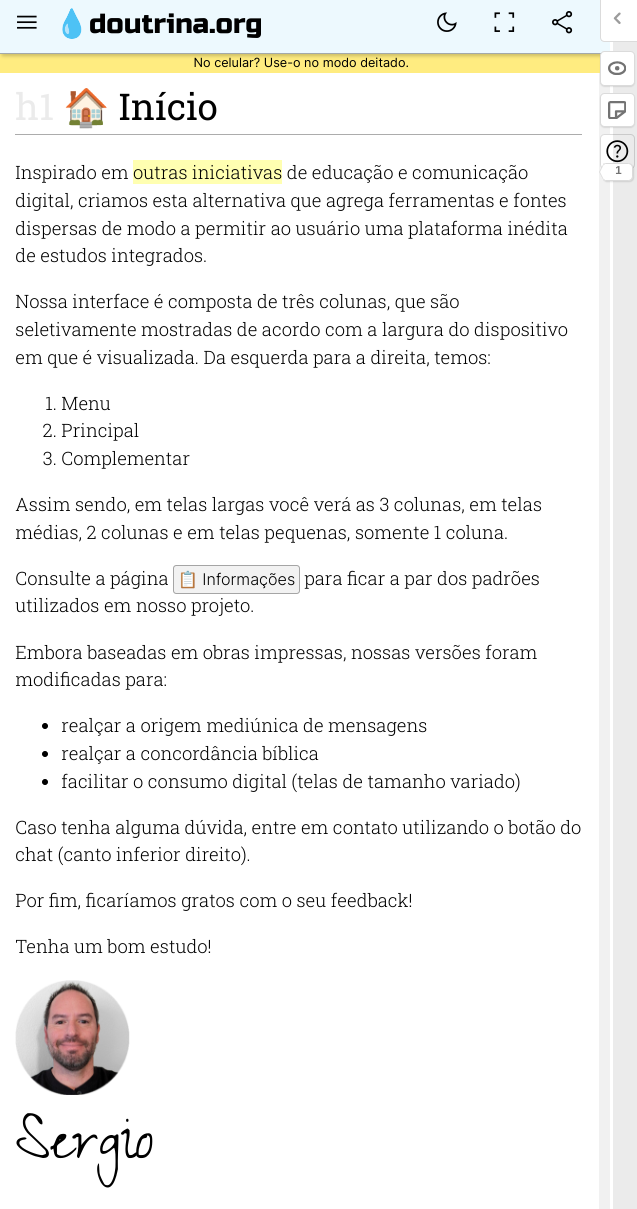
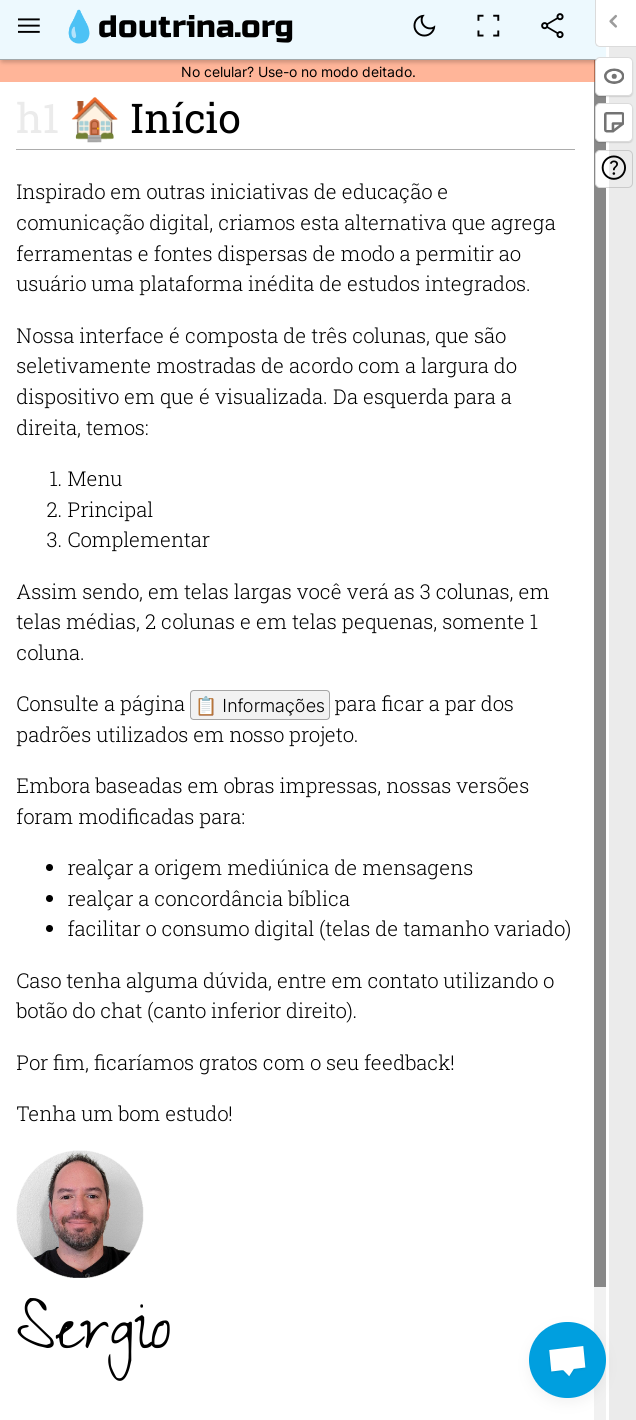
pwa mobile

Changed region(s): [[0.0, 0.0, 1.0, 1.0]]

diff --git a/framework/css/framework.css b/framework/css/framework.css
@@ -376,12 +376,13 @@ div#alert {
     top: 50px;
     left: 0;
     right: 23px;
-    background-color: #ffec80;
+    background-color: #ff450066;
     padding: 2px;
     font-family: 'Inter';
     font-size: 11px;
     width: calc(100% - 33px);
     text-align: center;
+    color: currentColor;
 }
 
 /* END FRAMEWORK */
